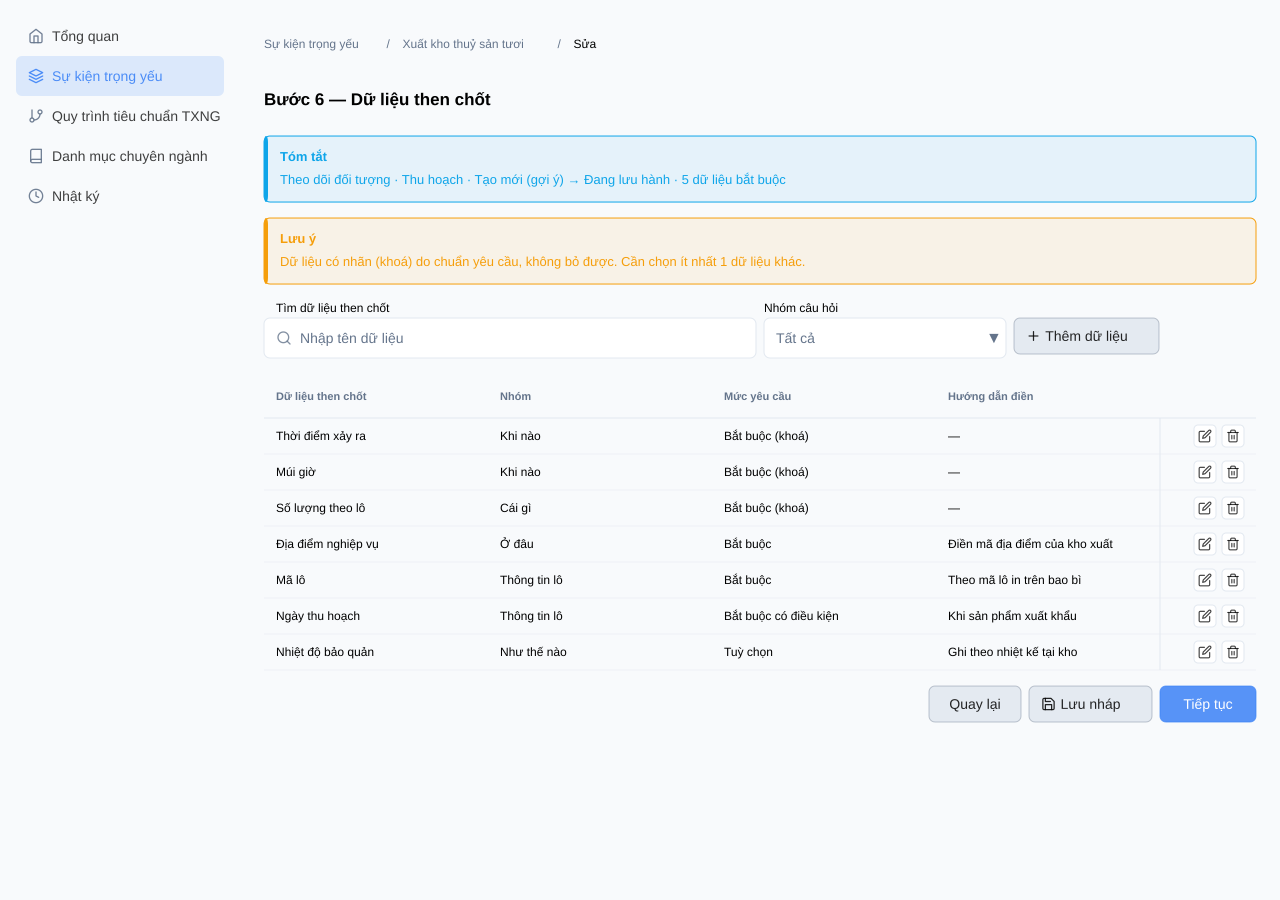
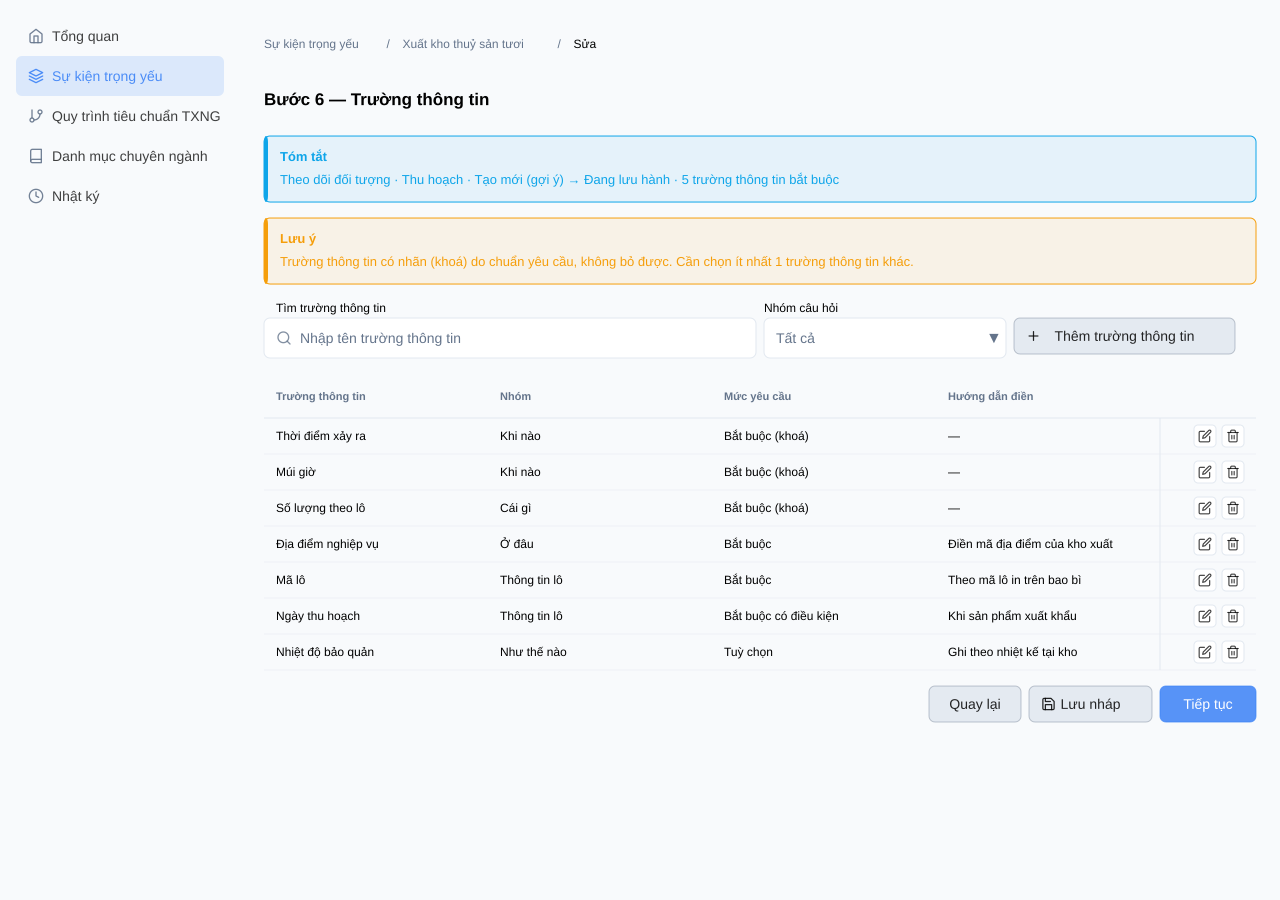
docs: thống nhất thuật ngữ Trường thông tin trong wireframe
Claude-Session: https://claude.ai/code/session_01QoHJwAkLKioLy5gHiQ95te

diff --git a/docs/prd/PRD-Quan-ly-Su-kien-trong-yeu.md b/docs/prd/PRD-Quan-ly-Su-kien-trong-yeu.md
@@ -548,7 +548,7 @@ project "Tạo Sự kiện trọng yếu - bước 1" {
         layout split(left: 260, gap: lg) {
           layout card(padding: md, gap: sm, border: true) {
             component Label text: "Các bước cấu hình"
-            component SidebarMenu items: "Thông tin chung,1. Loại sự kiện,2. Bước nghiệp vụ,3. Hành động (gợi ý),4. Trạng thái hàng hoá,5. Chứng từ giao dịch,6. Dữ liệu then chốt,7. Yêu cầu bổ sung" icons: "check-circle,edit,lock,lock,lock,lock,lock,lock" active: 1
+            component SidebarMenu items: "Thông tin chung,1. Loại sự kiện,2. Bước nghiệp vụ,3. Hành động (gợi ý),4. Trạng thái hàng hoá,5. Chứng từ giao dịch,6. Trường thông tin,7. Yêu cầu bổ sung" icons: "check-circle,edit,lock,lock,lock,lock,lock,lock" active: 1
           }
           layout stack(gap: md) {
             component Heading text: "Bước 1 — Chọn loại sự kiện" level: h4
@@ -598,15 +598,15 @@ project "Tạo Sự kiện trọng yếu - bước 6" {
       }
       layout stack(padding: lg, gap: md) {
         component Breadcrumbs items: "Sự kiện trọng yếu,Xuất kho thuỷ sản tươi,Sửa"
-        component Heading text: "Bước 6 — Dữ liệu then chốt" level: h3
-        component Alert variant: info title: "Tóm tắt" text: "Theo dõi đối tượng · Thu hoạch · Tạo mới (gợi ý) → Đang lưu hành · 5 dữ liệu bắt buộc"
-        component Alert variant: warning title: "Lưu ý" text: "Dữ liệu có nhãn (khoá) do chuẩn yêu cầu, không bỏ được. Cần chọn ít nhất 1 dữ liệu khác."
+        component Heading text: "Bước 6 — Trường thông tin" level: h3
+        component Alert variant: info title: "Tóm tắt" text: "Theo dõi đối tượng · Thu hoạch · Tạo mới (gợi ý) → Đang lưu hành · 5 trường thông tin bắt buộc"
+        component Alert variant: warning title: "Lưu ý" text: "Trường thông tin có nhãn (khoá) do chuẩn yêu cầu, không bỏ được. Cần chọn ít nhất 1 trường thông tin khác."
         layout grid(columns: 4, gap: sm) {
-          cell span: 2 { component Input label: "Tìm dữ liệu then chốt" placeholder: "Nhập tên dữ liệu" iconLeft: search }
+          cell span: 2 { component Input label: "Tìm trường thông tin" placeholder: "Nhập tên trường thông tin" iconLeft: search }
           cell span: 1 { component Select label: "Nhóm câu hỏi" placeholder: "Tất cả" }
-          cell span: 1 { component Button text: "Thêm dữ liệu" icon: plus labelSpace: true }
+          cell span: 1 { component Button text: "Thêm trường thông tin" icon: plus labelSpace: true }
         }
-        component Table columns: "Dữ liệu then chốt,Nhóm,Mức yêu cầu,Hướng dẫn điền" mock: "du,nhom,muc,hd" rows: 7 actions: "edit,trash-2"
+        component Table columns: "Trường thông tin,Nhóm,Mức yêu cầu,Hướng dẫn điền" mock: "du,nhom,muc,hd" rows: 7 actions: "edit,trash-2"
         layout stack(direction: horizontal, justify: end, gap: sm) {
           component Button text: "Quay lại"
           component Button text: "Lưu nháp" icon: save
@@ -878,7 +878,7 @@ project "Kế thừa cấp trung ương" {
           component Badge text: "Kế thừa từ Bộ NN&MT — phiên bản 2" variant: indigo
         }
         component Alert variant: danger title: "Không được hạ mức yêu cầu" text: "Dữ liệu Địa điểm nghiệp vụ là bắt buộc theo yêu cầu cấp trung ương. Cấp địa phương chỉ được thêm, không được bớt."
-        component Table columns: "Dữ liệu then chốt,Mức yêu cầu,Nguồn yêu cầu" mock: "du,muc,nguon" rows: 5 actions: "edit"
+        component Table columns: "Trường thông tin,Mức yêu cầu,Nguồn yêu cầu" mock: "du,muc,nguon" rows: 5 actions: "edit"
         layout card(padding: md, gap: sm, border: true) {
           component Label text: "Ngưỡng nhiệt độ bảo quản"
           layout grid(columns: 3, gap: sm) {
@@ -1080,7 +1080,7 @@ project "Kiểm tra và trình phê duyệt" {
   mocks {
     lop: "Thẩm quyền,Cấu trúc,Nghiệp vụ,Nghiệp vụ"
     muc: "Lỗi,Lỗi,Cảnh báo,Cảnh báo"
-    nd: "Thiếu căn cứ ban hành,Sự kiện giao dịch chưa có loại chứng từ,Bước nghiệp vụ ít dùng với loại sự kiện,2 dữ liệu chưa có hướng dẫn điền"
+    nd: "Thiếu căn cứ ban hành,Sự kiện giao dịch chưa có loại chứng từ,Bước nghiệp vụ ít dùng với loại sự kiện,2 trường thông tin chưa có hướng dẫn điền"
     di: "Thẩm quyền và phạm vi,Bước 5,Bước 3,Bước 6"
   }
   screen TrinhDuyet {
